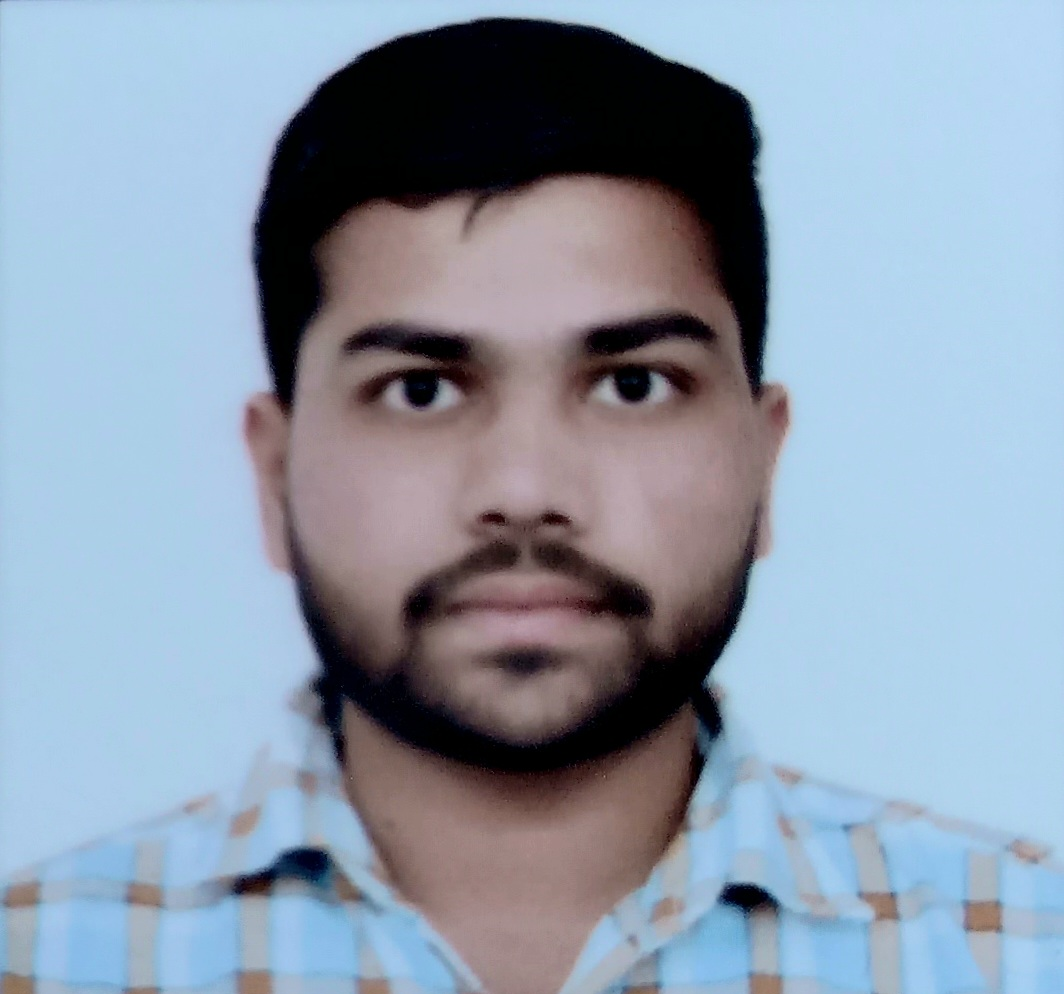
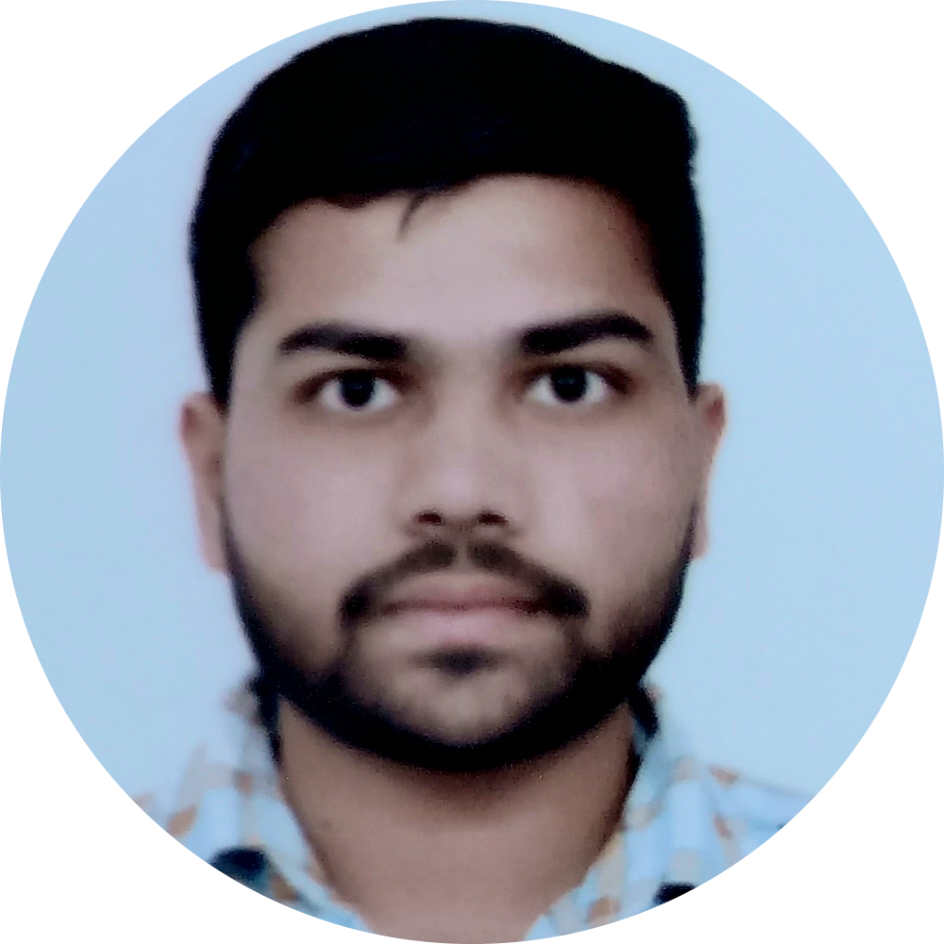
add services section and images

diff --git a/index.html b/index.html
@@ -16,8 +16,8 @@
     <box-icon name='menu' id="menu-icon"></box-icon> 
         <nav class="navbar_main">
         <a href="#home" class="active">Home</a>
-        <a href="#about">About</a>
-        <a href="#services">Services</a>
+        <a href="#about" class="active">About</a>
+        <a href="#services" class="active">Services</a>
         <a href="#portfolio">Portfolio</a>
         <a href="#contact">Contact</a>
     </nav>
@@ -39,7 +39,7 @@
         <a href="#" class="btn">Download CV</a>
     </div>
    <div class="h_img">
-    <img src="" alt="img">
+    <img src="images/A1.png" alt="img">
    </div>
    </section>
 
@@ -47,7 +47,7 @@
 
         <section class="abt" id="abt1">
             <div class="abt_img">
-                <img src="" alt="">
+                <img src="images/A1.png" alt="">
             </div>
             <div class="abt_content">
                 <h2 class="head1">About <span>Me</span></h2>
@@ -57,5 +57,35 @@
             </div>
         </section>
 
+        <!-- Our services <section></section>n -->
+        <section class="ser" id="ser1">
+            <h2 class="head1">Our <span>Services</span></h2>
+            <div class="ser_container">
+                <div class="ser_box">
+                    <i class='bx bx-code-alt'></i>
+                    <h3>Web Development</h3>
+                    <p>Lorem ipsum dolor sit amet.</p>
+                    <a href="#" class="btn">Read More</a>
+                </div>
+
+                <div class="ser_box">
+                    <i class='bx bx-code-curly'></i>
+                    <h3>Java Developer</h3>
+                    <p>Lorem ipsum dolor sit amet.</p>
+                    <a href="#" class="btn">Read More</a>
+                </div>
+
+                <div class="ser_box">
+                    <i class='bx bxs-paint'></i>
+                    <h3>Graphic Designer</h3>
+                    <p>Lorem ipsum dolor sit amet.</p>
+                    <a href="#" class="btn">Read More</a>
+                </div>
+            </div>
+        </section>
+
+
+        <!-- portfolio section  -->
+        
 </body>
 </html>

diff --git a/style.css b/style.css
@@ -162,3 +162,42 @@ span{
     font-size: 1.6rem;
     margin: 2rem 0 3rem;
 }
+
+
+/* service sectin styling */
+.ser h2{
+    margin-bottom: 5rem;
+
+}
+.ser_container{
+    display: flex;
+    justify-content: center;
+    align-items: center;
+    flex-wrap: wrap;
+    gap: 2rem;
+}
+.ser_container .ser_box{
+    flex: 1 1 30rem;
+    background: var(--second-bg-color);
+    padding: 3rem 2rem 4rem;
+    border-radius: 2rem;
+    text-align: center;
+    border: .2rem solid var(--bg-color) ;
+    transition: .5s ease;
+}
+.ser_container .ser_box:hover{
+    border-color: var(--main-color);
+    transform: scale(1.03);
+}
+.ser_box{
+    font-size: 8rem;
+    color: var(--main-color);
+
+}
+.ser_box h3{
+    font-size: 2.7rem;
+}
+.ser_box p {
+    font-size: 1.6rem;
+    margin:1rem 0 3 rem;
+}
